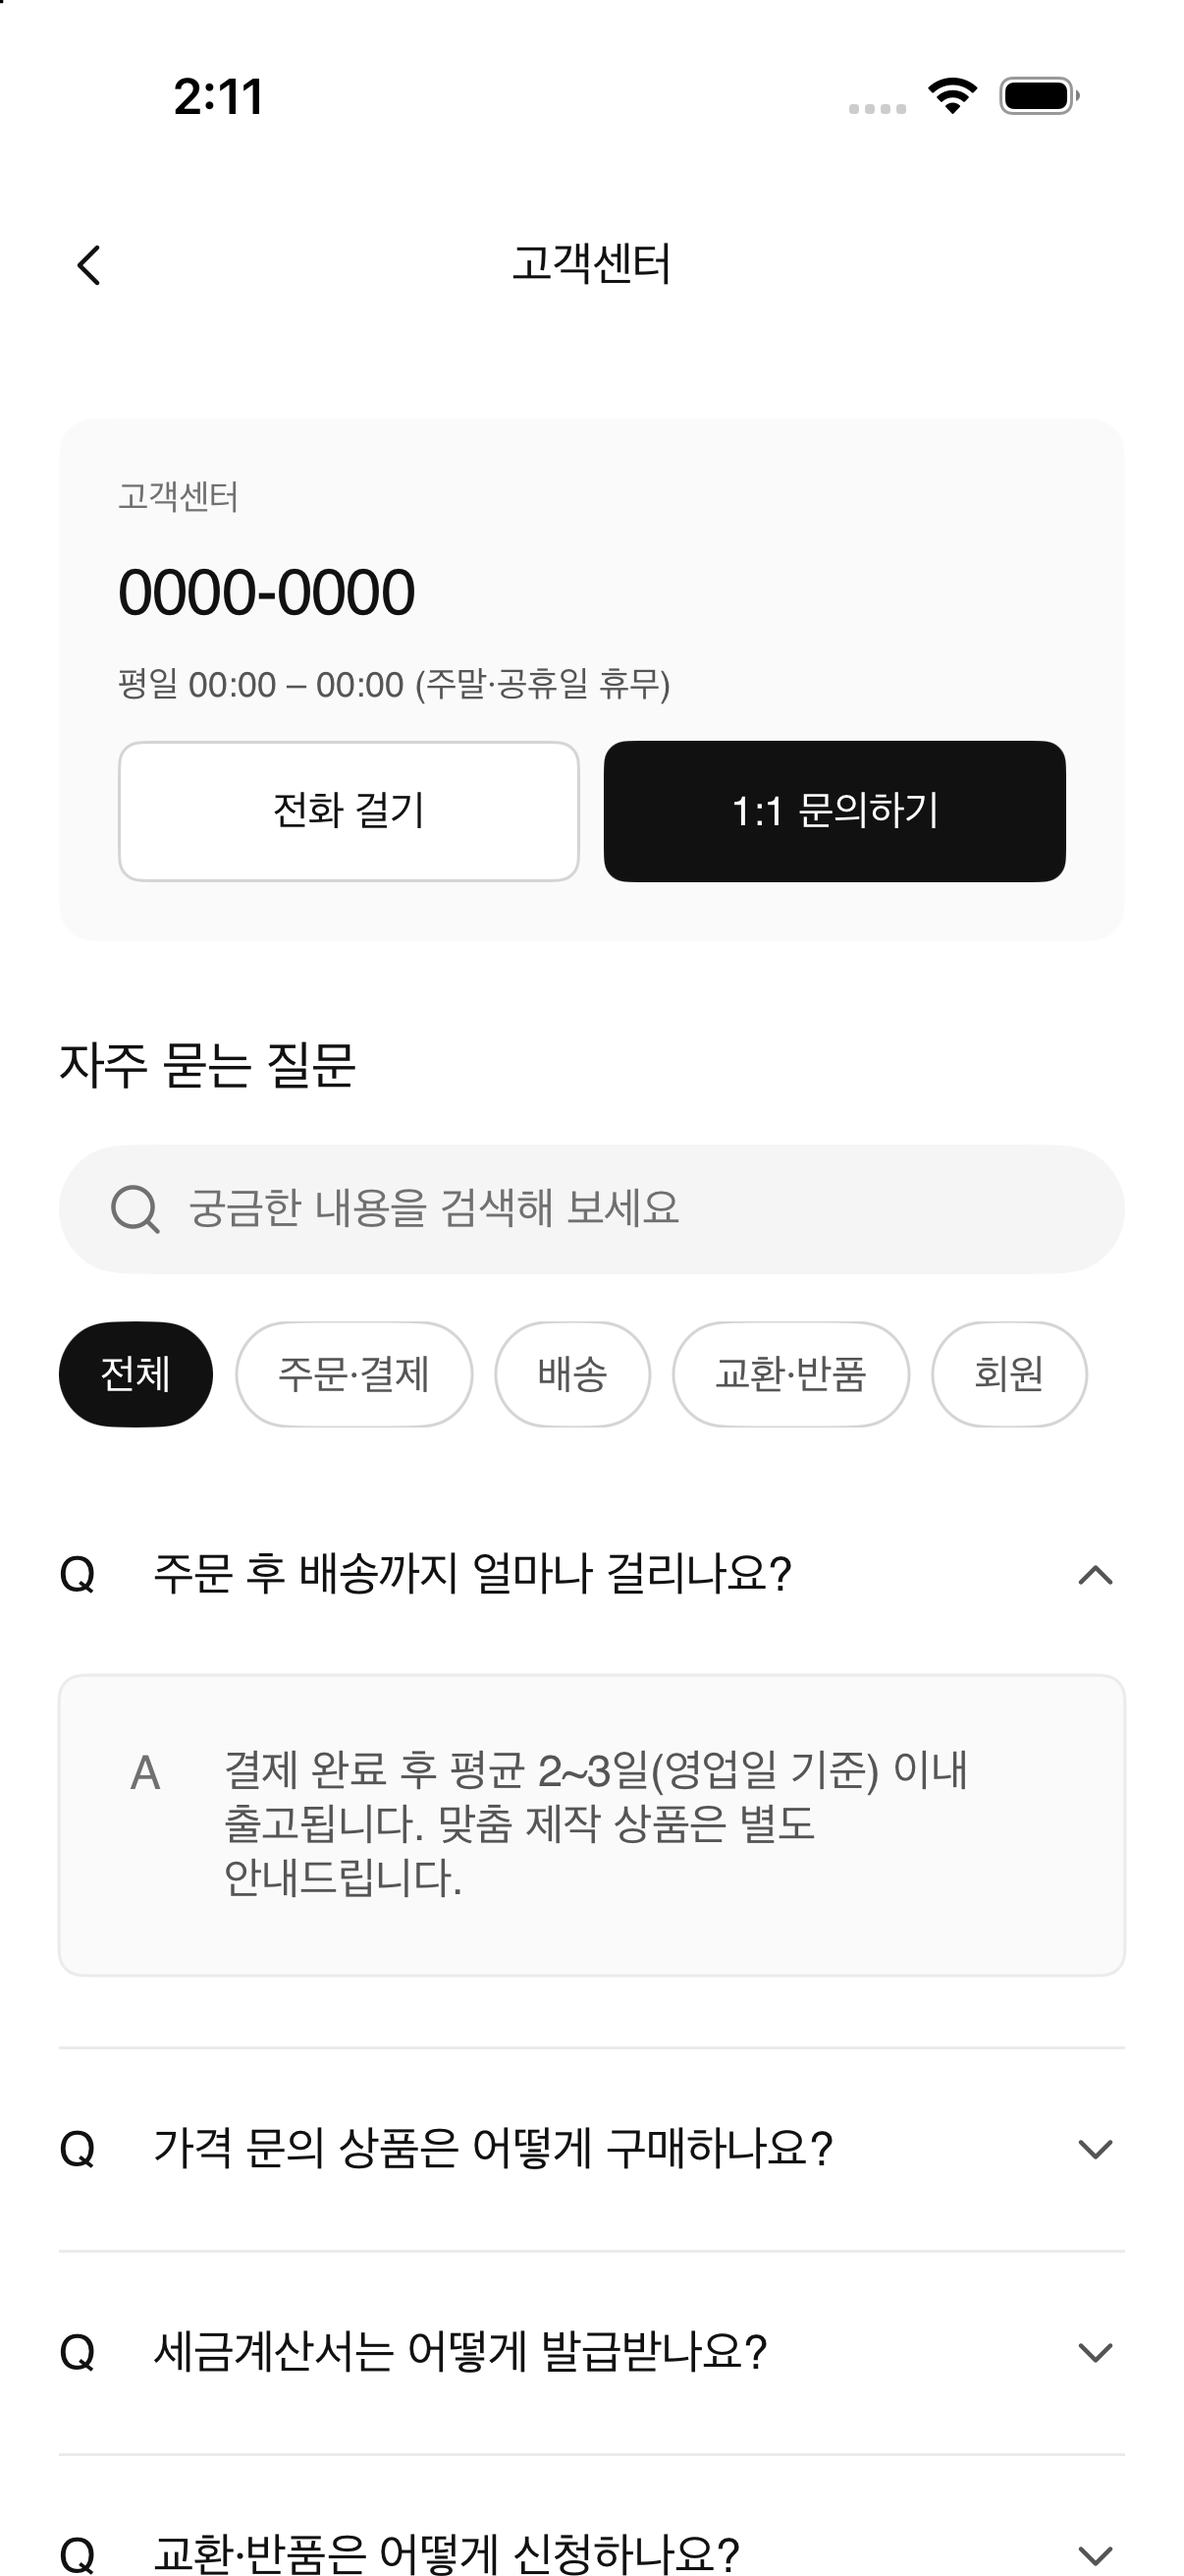
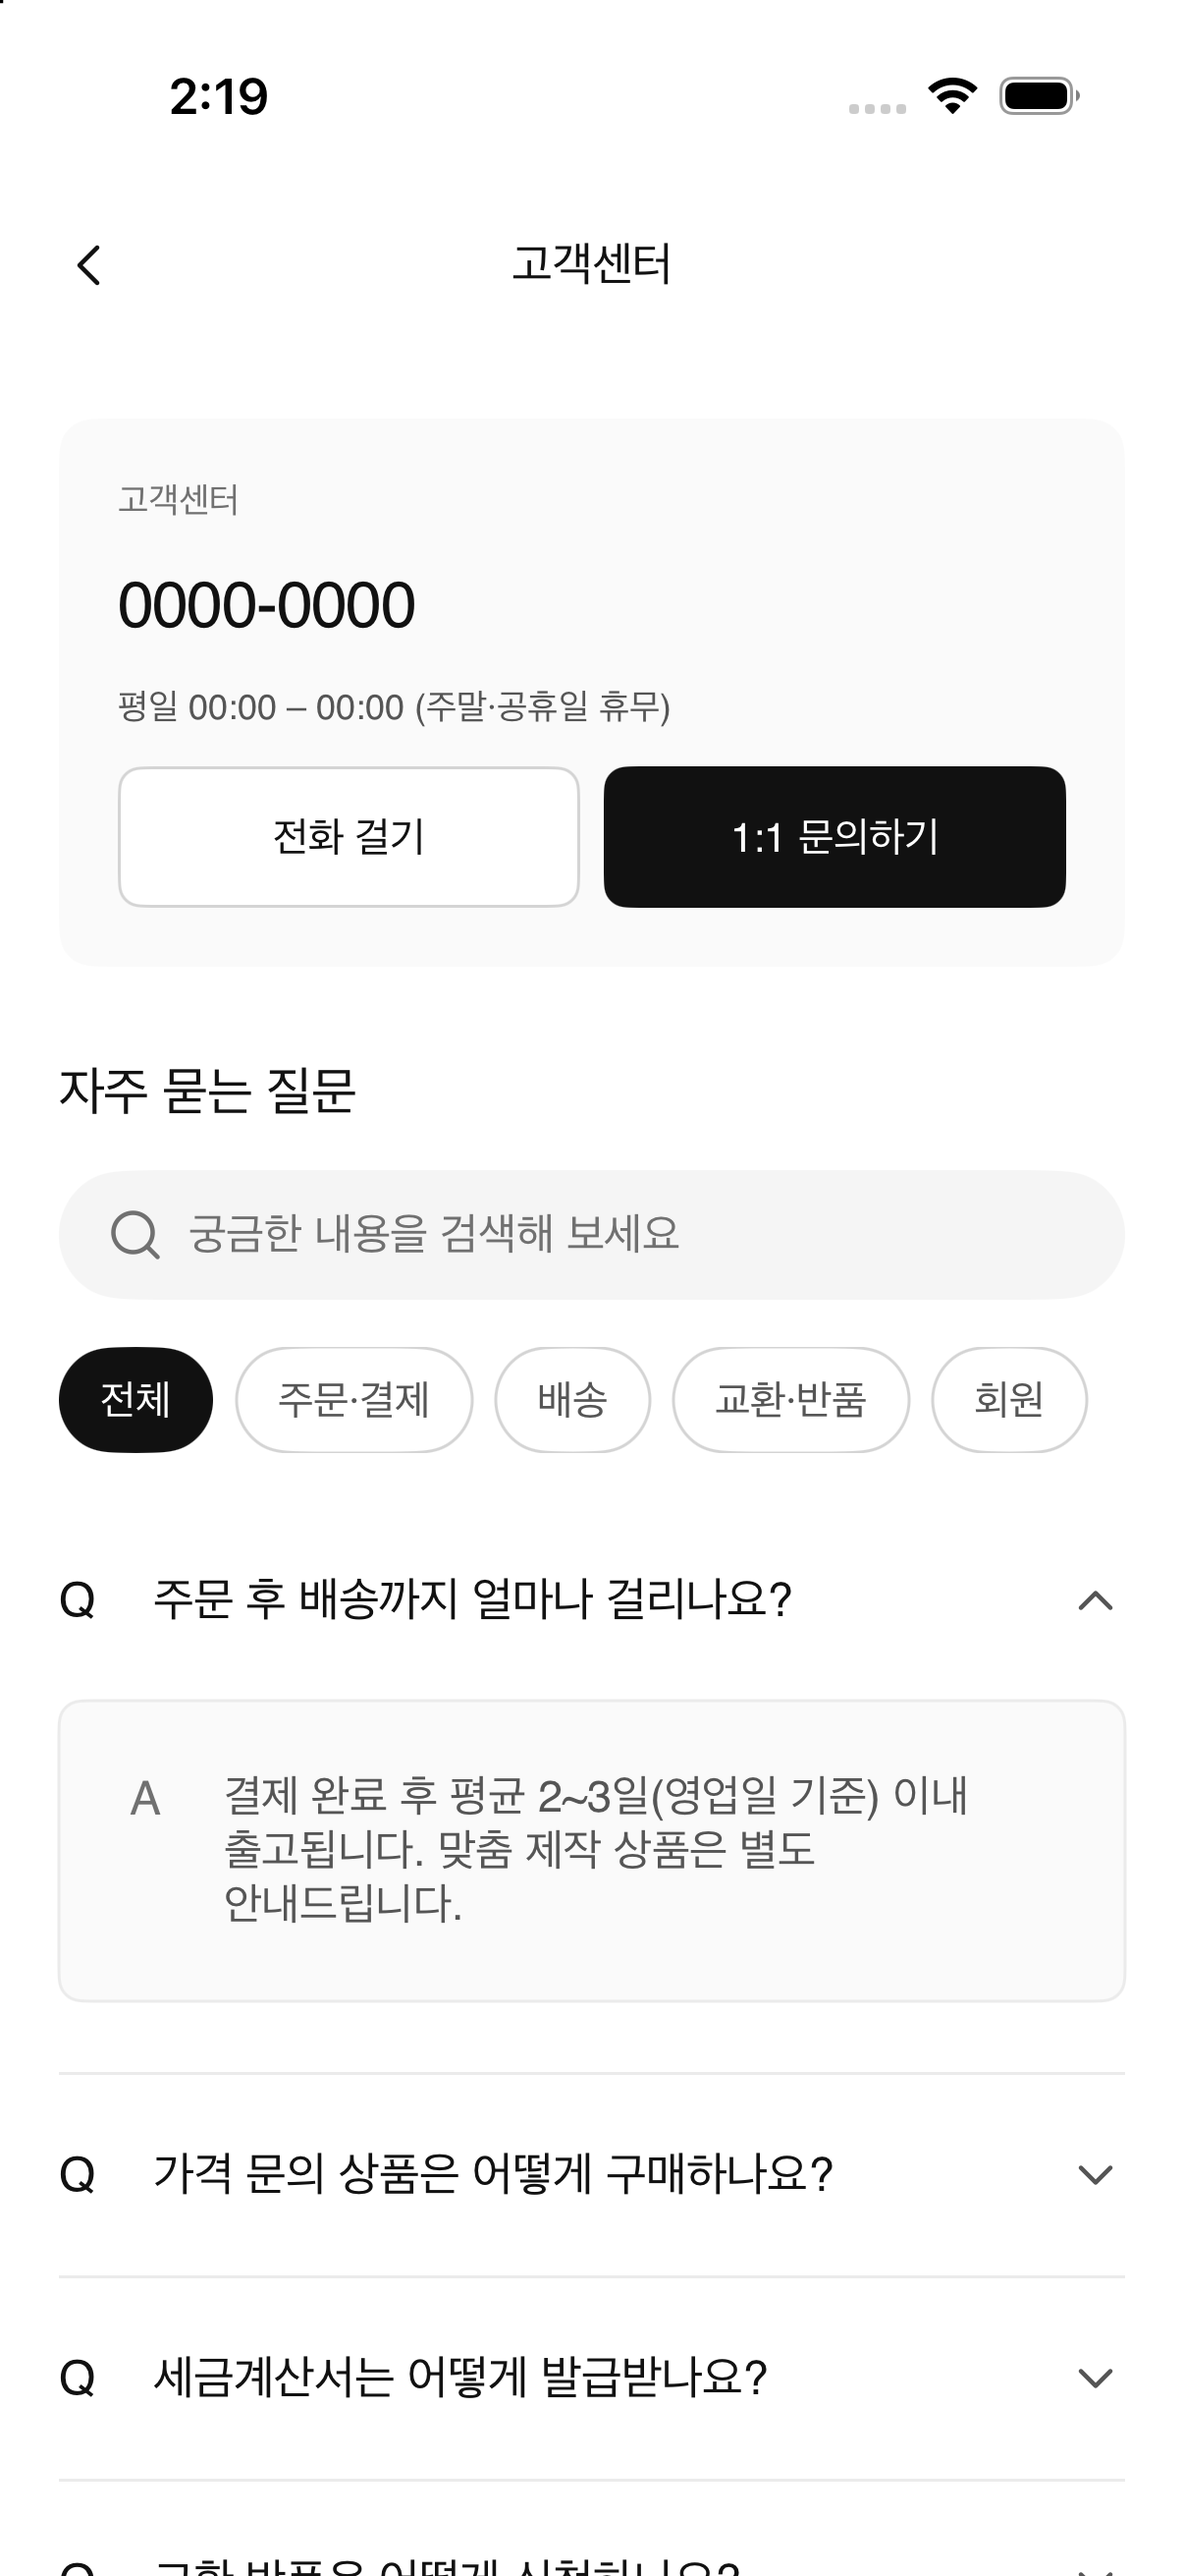
docs: #97 FAQ 검색 결과 Figma 패리티 기록

diff --git a/Docs/Design/A42_CUSTOMER_CENTER_PARITY.md b/Docs/Design/A42_CUSTOMER_CENTER_PARITY.md
@@ -9,17 +9,17 @@
 
 고객센터 연락처 카드, 운영 시간, 전화/1:1 문의 버튼, FAQ 제목과 검색창, 카테고리 칩, 다섯 FAQ 질문과 첫 번째 열린 답변을 구현했습니다. 화면 문구와 열린 답변은 Figma 내용을 사용했습니다. 상단 역방향 화살표와 검색 아이콘, FAQ 접기/펼치기 화살표는 기존 에셋을 재사용하고, Figma에만 있는 위쪽 화살표는 원본 SVG를 Asset Catalog에 추가했습니다.
 
-Figma 프로토타입에서 `1:1 문의하기`는 A-31 문의 내역(`480:5123`)으로, 검색창은 배송 검색 결과 A-42r(`661:8267`)로 연결됩니다. 문의 버튼은 기존 문의 내역 화면을 엽니다. 검색 버튼은 동일한 흐름을 유지하며, A-42r 검색 결과 화면은 이슈 #97에서 연결합니다. 전화번호는 디자인의 placeholder `0000-0000`이고 실제 전화 연결 번호가 없어 안내 메시지를 표시합니다. FAQ 카테고리와 접힌 질문에는 Figma prototype reaction이 없어 화면에 보이는 상태를 정적으로 구현했습니다.
+Figma 프로토타입에서 `1:1 문의하기`는 A-31 문의 내역(`480:5123`)으로, 검색창은 배송 검색 결과 A-42r(`661:8268`)로 연결됩니다. 문의 버튼은 기존 문의 내역 화면을 엽니다. 검색 버튼은 #97에서 구현한 배송 검색 결과 화면을 엽니다. A-42r에는 뒤로 가기 및 검색어 지우기 반응이 없어 두 동작은 고객센터 검색 시작 화면으로 돌아오게 연결했습니다. 전화번호는 디자인의 placeholder `0000-0000`이고 실제 전화 연결 번호가 없어 안내 메시지를 표시합니다. FAQ 카테고리와 접힌 질문에는 Figma prototype reaction이 없어 화면에 보이는 상태를 정적으로 구현했습니다.
 
 ## 시각 확인
 
-`Docs/Screenshots/A42-customer-center.png`는 iPhone 17 Pro (iOS 26.5) 시뮬레이터 캡처입니다. Tuist가 Git worktree의 `.git` 파일 형식에서 프로젝트 루트를 찾지 못해 검증용 clone에서 프로젝트를 생성하고 실행했습니다. 직접 화면 진입 인자는 검증용 clone에만 추가했습니다.
+`Docs/Screenshots/A42-customer-center.png`는 iPhone 17 Pro (iOS 26.5) 시뮬레이터 캡처입니다. Tuist가 Git worktree의 `.git` 파일 형식에서 프로젝트 루트를 찾지 못해 검증용 clone에서 프로젝트를 생성하고 실행했습니다. 직접 화면 진입 인자는 검증용 clone에만 추가했습니다. 연락처 카드는 A-42r과 공유하는 컴포넌트로 분리하고 Figma의 줄 높이에 맞췄습니다.
 
 Figma 프레임은 390 × 1091 pt이고 캡처 기기는 402 × 874 pt (1206 × 2622 px)입니다. 화면 폭, 높이, Safe Area 및 시스템 상태 표시 영역 차이가 있어 픽셀 일치는 주장하지 않습니다. 화면 구조, 연락처 카드, 칩, FAQ 문구와 첫 답변을 캡처로 확인했습니다. 수평 칩은 스크롤할 수 있습니다.
 
 ## 검증
 
-- SwiftLint strict: 182개 파일, 위반 0건
+- SwiftLint strict: #97까지 포함해 186개 파일, 위반 0건
 - Tuist: `tuist generate --no-open` 성공 (검증용 clone)
-- iOS Simulator: iPhone 17 Pro, iOS 26.5, 128개 테스트 통과 (0 실패)
+- iOS Simulator: iPhone 17 Pro, iOS 26.5, 129개 테스트 통과 (0 실패)
 - 빌드 중 기존 `FavoritesViewModel` 및 `RecentlyViewedViewModel`의 Swift 6 actor-isolation 경고가 출력됐습니다. 이번 변경과 무관합니다.

diff --git a/Docs/Design/A42R_FAQ_SEARCH_RESULTS_PARITY.md b/Docs/Design/A42R_FAQ_SEARCH_RESULTS_PARITY.md
@@ -1,0 +1,25 @@
+# A-42r FAQ 검색 결과
+
+- Figma: [A-42r FAQ 검색 결과](https://www.figma.com/design/N3Ic9TfSnUBVMgAuayBVly?node-id=661-8268)
+- Node: `661:8268` (390 × 844 pt)
+- 진입: 마이페이지 > 고객센터 > FAQ 검색창
+- 뒤로 가기: 고객센터 FAQ 검색 시작 화면
+
+## 화면 구성
+
+A-42 고객센터와 같은 상단 바와 연락처 카드를 사용하고, FAQ 제목, `배송` 검색어, 검색 결과 수, 질문 두 개를 표시합니다. 연락처 카드를 공통 컴포넌트로 분리해 두 화면에서 공유하고, Figma의 글자 줄 높이(연락처 16/30/16 pt)를 적용했습니다. 검색어와 결과 문구는 Figma의 mock 내용을 유지하며 일치하는 `배송` 글자만 굵게 표시합니다. 결과 수는 프레임 문구 `검색 결과 00건`을 그대로 표시합니다.
+
+Figma 검색 시작 화면의 prototype reaction을 따라 고객센터의 검색창을 누르면 A-42r 화면으로 이동합니다. 결과 프레임에는 검색창 지우기, 뒤로 가기, FAQ 행의 reaction이 정의되어 있지 않습니다. 뒤로 가기와 검색어 지우기는 모두 검색 시작 화면으로 돌아가고, 결과 행은 화면에 표시된 정적 mock 상태로 유지합니다. 실제 FAQ 검색 API나 검색어 편집은 이번 화면 범위에 포함되지 않습니다.
+
+## 시각 확인
+
+`Docs/Screenshots/A42r-faq-search-results.png`는 iPhone 17 Pro (iOS 26.5) 시뮬레이터 캡처입니다. Tuist가 Git worktree의 `.git` 파일 형식에서 프로젝트 루트를 찾지 못해 검증용 clone에서 생성하고 실행했습니다. 이 clone에만 `--show-faq-search-results` 직접 진입 인자를 추가했습니다.
+
+Figma 프레임은 390 × 844 pt이고 캡처 기기는 402 × 874 pt (1206 × 2622 px)입니다. Dynamic Island에 따른 상태 표시 영역과 Safe Area 차이 때문에 위쪽 배치가 달라 픽셀 일치는 주장하지 않습니다. 화면 구성, 연락처 카드, 검색어, 결과 수, 질문 문구와 강조 스타일을 캡처로 확인했습니다.
+
+## 검증
+
+- SwiftLint strict: 186개 파일, 위반 0건
+- Tuist: `tuist generate --no-open` 성공 (검증용 clone)
+- iOS Simulator: iPhone 17 Pro, iOS 26.5, 129개 테스트 통과 (0 실패)
+- 기존 `FavoritesViewModel` 및 `RecentlyViewedViewModel`에서 Swift 6 actor-isolation 경고가 출력됐습니다. 이번 변경과 무관합니다.
